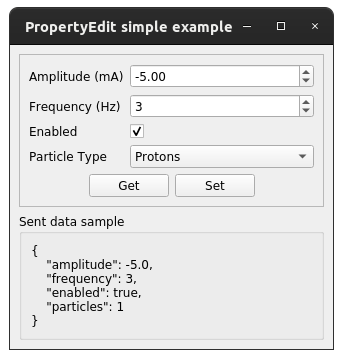
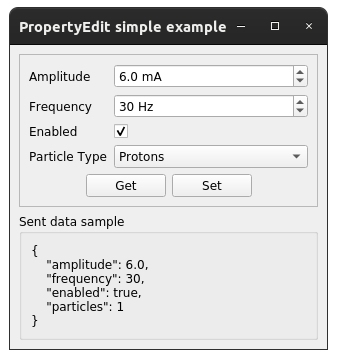
Update PropertyEdit examples with numeric configuration

diff --git a/examples/property_edit/amplitude_example.py b/examples/property_edit/amplitude_example.py
@@ -29,8 +29,24 @@ class MainWindow(QMainWindow):
         property_edit.buttons = PropertyEdit.Buttons.SET | PropertyEdit.Buttons.GET
         property_edit.sendOnlyUpdatedValues = False
         property_edit.fields = [
-            PropertyEditField(field="amplitude", label="Amplitude (mA)", editable=True, type=PropertyEdit.ValueType.REAL),
-            PropertyEditField(field="frequency", label="Frequency (Hz)", editable=True, type=PropertyEdit.ValueType.INTEGER),
+            PropertyEditField(field="amplitude",
+                              label="Amplitude",
+                              editable=True, type=PropertyEdit.ValueType.REAL,
+                              user_data={
+                                  "min": 0.0,
+                                  "max": 10000.0,
+                                  "units": "mA",
+                                  "precision": 1,
+                              }),
+            PropertyEditField(field="frequency",
+                              label="Frequency",
+                              editable=True,
+                              type=PropertyEdit.ValueType.INTEGER,
+                              user_data={
+                                  "min": 1,
+                                  "max": 20000,
+                                  "units": "Hz",
+                              }),
             PropertyEditField(field="enabled", label="Enabled", editable=True, type=PropertyEdit.ValueType.BOOLEAN),
             PropertyEditField(field="particles",
                               label="Particle Type",
